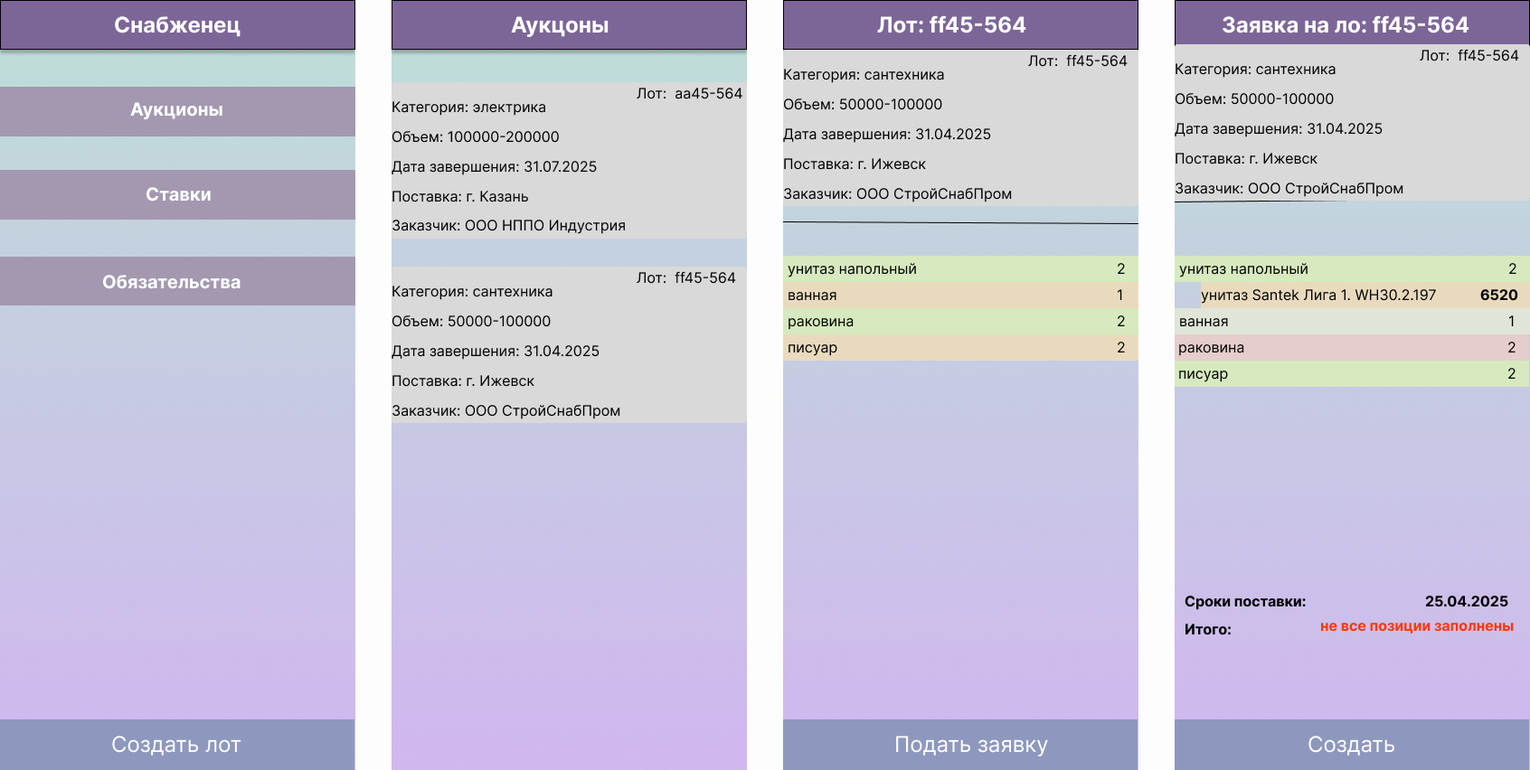
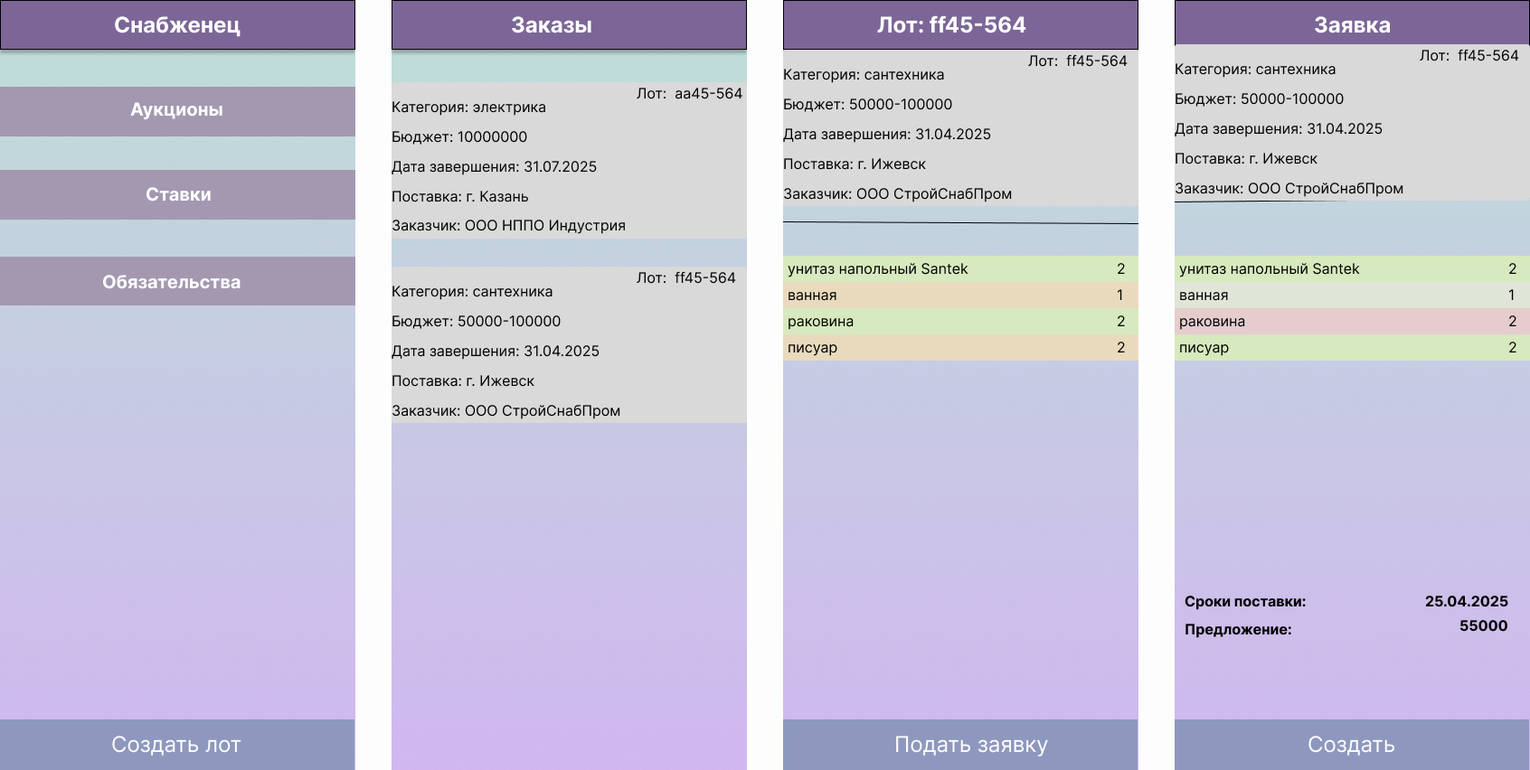
аналитики и бизнес-требования

diff --git a/supplier/docs/01-biz/03-bizreq.md b/supplier/docs/01-biz/03-bizreq.md
@@ -1,152 +1,64 @@
-### Поставщики компонентов
-
+### Все
 **User Story 1: Регистрация на платформе**
-Как поставщик компонентов, я хочу зарегистрироваться на платформе, чтобы начать размещать свои товары.
+я хочу иметь возможность зарегистрироваться в системе для создания своих заказов или предложений
 
 **Критерии приемки:**
-
 - Пользователь успешно создает учетную запись на платформе.
 - После регистрации поставщик получает подтверждение об успешной регистрации.
 
-**User Story 2: Управление объявлениями**
-Как поставщик компонентов, я хочу иметь возможность создавать, редактировать и удалять объявления о своих компонентах.
+### Бригадир
+
+**User Story 1: Создание и редактирование заказа**
+Как заказчик, я хочу иметь возможность создавать, редактировать и удалять объявления о своих заказах.
 
 **Критерии приемки:**
 
-- Поставщик может добавить новое объявление с изображениями, описанием и ценой компонента.
-- Поставщик может редактировать и удалять существующие объявления.
+- Заказчик может добавить новое объявление указав перечень необходимого, количество, сроки и место поставки и общий бюджет
+- Заказчик может редактировать и удалять существующие объявления, если он не выбрал до этого предложение.
 - Все изменения отображаются корректно на платформе.
 
-**User Story 3: Управление заказами**
-Как поставщик компонентов, я хочу получать уведомления о новых заказах и иметь возможность управлять ими.
+**User Story 2: Выбор предложения**
+Как заказчик, я хочу иметь возможность выбрать предложение из имеющихся.
 
 **Критерии приемки:**
 
-- Поставщик получает уведомление о новом заказе.
-- Поставщик может просматривать список заказов и их статусы.
-- Поставщик может подтверждать или отклонять заказы.
+- Заказчик видит список предложений.
+- Может выбрать любое из предложений.
 
-### Производители промышленных товаров
-
-**User Story 1: Поиск и выбор компонентов**
-Как производитель промышленных товаров, я хочу иметь возможность искать и выбирать подходящие компоненты для создания
-моих продуктов.
+**User Story 3: Отслеживание статуса заказами**
+Как заказчик, я хочу видеть, какие статусы у моих заказов.
 
 **Критерии приемки:**
+- Заказчик видит список заказов и их статусы.
+- После изменения статуса заказа меняется и их статус в списке.
 
-- Производитель может использовать поиск и фильтры для нахождения нужных компонентов.
-- Производитель может просматривать подробные описания и изображения компонентов.
-- Производитель может добавить выбранные компоненты в корзину или оформить заказ.
-
-**User Story 2: Управление заказами компонентов**
-Как производитель промышленных товаров, я хочу иметь возможность заказывать необходимые компоненты и отслеживать статус
-моих заказов.
+**User Story 4: Подтверждение выполнения заказа**
+Как заказчик, после выполнения заказа я хочу иметь возможность подтверждения выполнения заказа.
 
 **Критерии приемки:**
+- Заказчик видит что статус изменен на выполнен и может подтвердить заказ.
+- После изменения статуса заказа меняется и их статус в списке.
 
-- Производитель может добавить компоненты в корзину и оформить заказ.
-- Производитель получает подтверждение о размещении заказа и может отслеживать его статус.
-- Информация о статусе заказа обновляется в реальном времени.
-
-### Потребители промышленных товаров
-
-**User Story 1: Поиск и покупка промышленных товаров**
-Как потребитель промышленных товаров, я хочу иметь возможность находить и покупать необходимые товары для своего
-бизнеса.
+### Курьер
+**User Story 1: Поиск и выбор заказов**
+Как исполнитель, я хочу иметь возможность поиска и просмотра доступных заказов с выбором региона.
 
 **Критерии приемки:**
+- исполнитель может использовать поиск по региону для фильтрации нахождения нужных заказов.
+- исполнитель может просматривать подробные описание заказа.
 
-- Пользователь может использовать поиск и фильтры для нахождения нужных промышленных товаров.
-- Пользователь может просматривать подробные описания, характеристики и изображения товаров перед покупкой.
-- Процесс оформления заказа понятен и интуитивно понятен.
-
-**User Story 2: Отслеживание статуса заказа**
-Как потребитель промышленных товаров, я хочу иметь возможность отслеживать статус моих заказов для контроля над
-процессом доставки.
+**User Story 2: Создание предложения**
+Как исполнитель, я хочу иметь возможность создания несколько предложений по заказу.
 
 **Критерии приемки:**
+- исполнитель может выставить свое предложение (до трех).
 
-- Пользователь может просматривать статус своих заказов через личный кабинет на платформе.
-- Информация о статусе заказа обновляется в реальном времени.
-- Пользователь получает уведомления об изменениях в статусе заказа.
-
-### Разработчики и технические специалисты
-
-**User Story 1: Поддержка технической инфраструктуры**
-Как разработчик или технический специалист, я хочу обеспечить надежную работу платформы для всех пользователей.
+**User Story 3: Отслеживание статуса предложения**
+Как исполнитель, я хочу иметь возможность увидеть свои предложения с фильтрацией по статусу, и региону заказчика.
 
 **Критерии приемки:**
+- исполнитель может выбрать фильтр по статусу и по времени для своих предложений.
 
-- Инфраструктура платформы поддерживает высокую производительность и отказоустойчивость.
-- Баги и ошибки в работе платформы максимально быстро исправляются.
-- Обеспечена безопасность данных пользователей и конфиденциальность информации.
-
-### Менеджеры логистики
-
-**User Story 1: Оптимизация логистики доставки**
-Как менеджер логистики, я хочу оптимизировать процесс доставки компонентов от поставщиков до производителей.
-
-**Критерии приемки:**
-
-- Время доставки компонентов минимизировано.
-- Стоимость доставки снижена до минимально возможного уровня.
-- Уровень сервиса от логистических компаний соответствует установленным стандартам.
-
-### Маркетинговые специалисты
-
-**User Story 1: Продвижение платформы**
-Как маркетинговый специалист, я хочу эффективно продвигать платформу для привлечения новых пользователей.
-
-**Критерии приемки:**
-
-- Увеличение количества зарегистрированных пользователей на платформе.
-- Увеличение трафика на сайте и активность пользователей.
-- Повышение узнаваемости бренда платформы в целевой аудитории.
-
-### Юристы и правовые консультанты
-
-**User Story 1: Обеспечение правовой защиты**
-Как юрист или правовой консультант, я хочу обеспечить правовую защиту платформы и ее пользователей.
-
-**Критерии приемки:**
-
-- Разработаны и внедрены пользовательское соглашение и политика конфиденциальности, соответствующие требованиям
-  законодательства.
-- Регулярно проводится анализ изменений в законодательстве и обновление правовых документов платформы.
-- Решение возникающих правовых вопросов и споров с пользователями происходит в соответствии с законом.
-
-### Финансовые аналитики и бухгалтеры
-
-**User Story 1: Финансовое планирование и анализ**
-Как финансовый аналитик или бухгалтер, я хочу осуществлять финансовое планирование и анализ результатов деятельности
-платформы.
-
-**Критерии приемки:**
-
-- Ведение учета финансовых операций платформы в соответствии с требованиями бухгалтерского учета.
-- Подготовка финансовых отчетов регулярно и в установленные сроки.
-- Анализ финансовых показателей и выявление ключевых метрик для принятия управленческих решений.
-
-### Владелец проекта
-
-**User Story 1: Определение стратегии развития**
-Как владелец проекта, я хочу определить стратегию развития платформы для достижения поставленных целей.
-
-**Критерии приемки:**
-
-- Разработана стратегия развития платформы с учетом текущих трендов рынка и потребностей пользователей.
-- Стратегия утверждена и поддерживается всеми ключевыми заинтересованными сторонами.
-- Установлены конкретные метрики успеха и планы мониторинга выполнения стратегии.
-
-### Инвестор
-
-**User Story 1: Предоставление финансовых средств**
-Как инвестор, я хочу предоставить финансовые средства для реализации проекта и получить прибыль в долгосрочной
-перспективе.
-
-**Критерии приемки:**
-
-- Предоставлены финансовые средства в соответствии с соглашением между инвестором и владельцем проекта.
-- Планирование и распределение финансовых ресурсов осуществляется согласно требованиям бизнес-плана проекта.
-- Инвестор получает удовлетворительную отдачу от инвестиций в проект в соответствии с установленными целями и
-  ожиданиями.
+**User Story 4: Изменение статуса предложения**
+Как исполнитель, я хочу иметь возможность установить статус своего предложения как выполнен.
+- если заказчик до этого принял данное предложение, исполнитель может выбрать предложение и выставить статус выполнен.

diff --git a/supplier/docs/01-biz/02-stakeholders.md b/supplier/docs/01-biz/02-stakeholders.md
@@ -1,26 +1,28 @@
-### Стейкхолдеры:
-
-1. **Поставщики компонентов**
-    - *Описание:* Компании или частные лица, предоставляющие компоненты для промышленных товаров.
+1. **Бригадир**
+    - *Описание:* Небольшая компания или частное лицо, занимающийся строительством 
     - *Роли и обязанности:*
-        - Предоставление информации о доступных компонентах.
-        - Обеспечение качественной доставки заказанных компонентов.
-        - Взаимодействие с платформой для управления объявлениями и заказами.
-
-2. **Производители промышленных товаров**
-    - *Описание:* Компании, использующие компоненты для создания промышленных товаров, таких как автомобили, электроника
-      и т. д.
+        - Создает заказ
+        - Выбор исполнителя
+        - Отслеживание статуса заказов и получение продукции
+        - Оценка качества доставки
+      
+2. **Курьер**
+    - *Описание:* Частное лицо, готовое съездить за товаром
     - *Роли и обязанности:*
-        - Просмотр и выбор подходящих компонентов для своих продуктов.
-        - Заказ и управление поставками компонентов.
-        - Обратная связь и оценка качества полученных компонентов.
+        - Найти и принять заказ
+        - Оценка качества приемки/оплаты
 
-3. **Потребители промышленных товаров**
-    - *Описание:* Компании или конечные потребители, заинтересованные в приобретении готовых промышленных товаров.
-    - *Роли и обязанности:*
-        - Поиск и выбор необходимых компонентов.
-        - Размещение заказов на компоненты.
-        - Отслеживание статуса заказов и получение продукции.
+3. **Посредник**
+   - *Описание:* Частное лицо, или организация
+   - *Роли и обязанности:*
+      - Найти и принять заказ
+      - Создать новый заказ
+      - Создать заказ на основе имеющегося
+      - Выбрать исполнителя
+      - Назначить исполнителя
+      - Отследить статус
+
+TODO
 
 4. **Разработчики и технические специалисты**
     - *Описание:* Люди или команды, помогающие с техническими вопросами, включая выбор правильных компонентов и их
@@ -30,15 +32,7 @@
         - Помощь в интеграции компонентов в конечные продукты.
         - Обратная связь по улучшению функционала и ассортимента компонентов.
 
-5. **Менеджеры логистики**
-    - *Описание:* Люди, ответственные за организацию и управление доставкой компонентов от поставщиков до
-      производителей.
-    - *Роли и обязанности:*
-        - Планирование и координация логистических операций.
-        - Оптимизация доставки для сокращения времени и затрат.
-        - Решение проблем и обработка возникающих задержек или проблем с поставкой.
-
-6. **IT-специалисты и разработчики**
+5. **IT-специалисты и разработчики**
     - *Описание:* Люди, занимающиеся разработкой и поддержкой технической инфраструктуры маркетплейса.
     - *Роли и обязанности:*
         - Разработка и поддержка веб-сайта и приложений.

diff --git a/supplier/docs/01-biz/01-target-audience.md b/supplier/docs/01-biz/01-target-audience.md
@@ -1,9 +1,10 @@
 # Целевая аудитория
 
-- средние и небольшие организации занимающиеся строительством (заказчиков)
+- средние и небольшие организации занимающиеся строительством (заказчик)
 - организации, занимающиеся продажей строительных товаров (подрядчик)
 - организации, занимающиеся производством строительных товаров (подрядчик)
 - организации и частные лица, предоставляющие посреднические услуги (подрядчик, заказчиков)
+- частные лица, предоставляющие курьерские услуги по закупке и доставке товаров (подрядчик)
 
 # Заказчики
 1. Снабженец крупный
@@ -14,24 +15,24 @@
       1. пассивное/отсутствует
       2. имеет крупные заказы, раскидывает их на более мелкие и скидывает по подчиненным/знакомым посредникам
    Комментарий: не является непосредственной целевой аудиторией, но является важным источником заказов в системе
-2. Снабженец средний
+2. Бригадир
+   1. мужчина 30-50 лет
+   2. имеющий опыт работы в отрасли
+   3. достаточно консервативный и ценящий свое время
+   4. поведение в системе:
+      1. время от времени
+      2. создает средние и мелкие заказы со сроком поставки 1-2 дня
+   Комментарий: работать через систему ему должно быть удобней, чем самостоятельно искать по сайту интернет магазина или ехать на строительный рынок/магазин
+3. Снабженец средний
    1. мужчина 30-50 лет
    2. имеющий опыт работы в отрасли
    3. достаточно консервативный и ценящий свое время
    4. поведение в системе:
       1. регулярное (1-2 раза в неделю)
       2. создает:
-         1. заказы с большим количеством наименований со средним сроком поставки (подкупет товары для базы) 
-         2. небольшие по кол-ву наименований, но объемные и с долгним сроком выполнения 
-3. Бригадир
-   1. мужчина 30-50 лет
-   2. имеющий опыт работы в отрасли
-   3. достаточно консервативный и ценящий свое время
-   4. поведение в системе:
-      1. время от времени
-      2. имеет средние и мелкие заказы со сроком поставки 1-2 дня
-   Комментарий: работать через систему ему должно быть удобней, чем самостоятельно искать по сайту интернет магазина или ехать на строительный рынок/магазин
-3. Посредник
+         1. заказы с большим количеством наименований со средним сроком поставки (подкупет товары для базы)
+         2. небольшие по кол-ву наименований, но объемные и с долгим сроком выполнения
+4. Посредник
    1. мужчина 25-45 лет
    2. образование среднее/неоконченное высшее/высшее не по специальности
    3. возможны варианты

diff --git a/supplier/README.md b/supplier/README.md
@@ -1,17 +1,18 @@
 # supplier
 
-"Снабженец" -- специализированная площадка, для организации лотов на закупку строительных материалов
-в Приволжским федеральным округу.
+"Снабженец" -- торговая площадка, для организации конкурсов на закупку строительных материалов в Приволжским федеральным округу. 
+В отличие от обычных аукционов, заказчик может в любой момент выбрать понравившееся предложение по соотношению цена/качество/время 
+доставки. Для подрядчиков есть возможность выставить несколько предложений на один лот с разными предложениями.   
 
 Задача площадки:
-* для заказчиков - по организации аукциона на выполнение заказа
-* для подрядчиков - поиск аукционов, выставление предложений по выполнению заказа 
+* для заказчиков - уменьшить стоимость/улучшить качество поставляемых товаров за счет увеличения количества предложений
+* для подрядчиков - увеличить количество возможных покупателей/увеличить объемы продаж 
 
 ## Визуальная схема фронтенда
 
 ![Визуальная схема фронтенда](./img/supplier.png)
 
-https://www.figma.com/design/E1UH3sInqlHFuY9bkVDJWV/supplier?node-id=1-6&t=NUBWAaIrxoGnXsmZ-1
+https://www.figma.com/design/E1UH3sInqlHFuY9bkVDJWV/supplier?node-id=2-74&t=etGltWC8rXDxjPzU-1
 
 ## Документация
 
